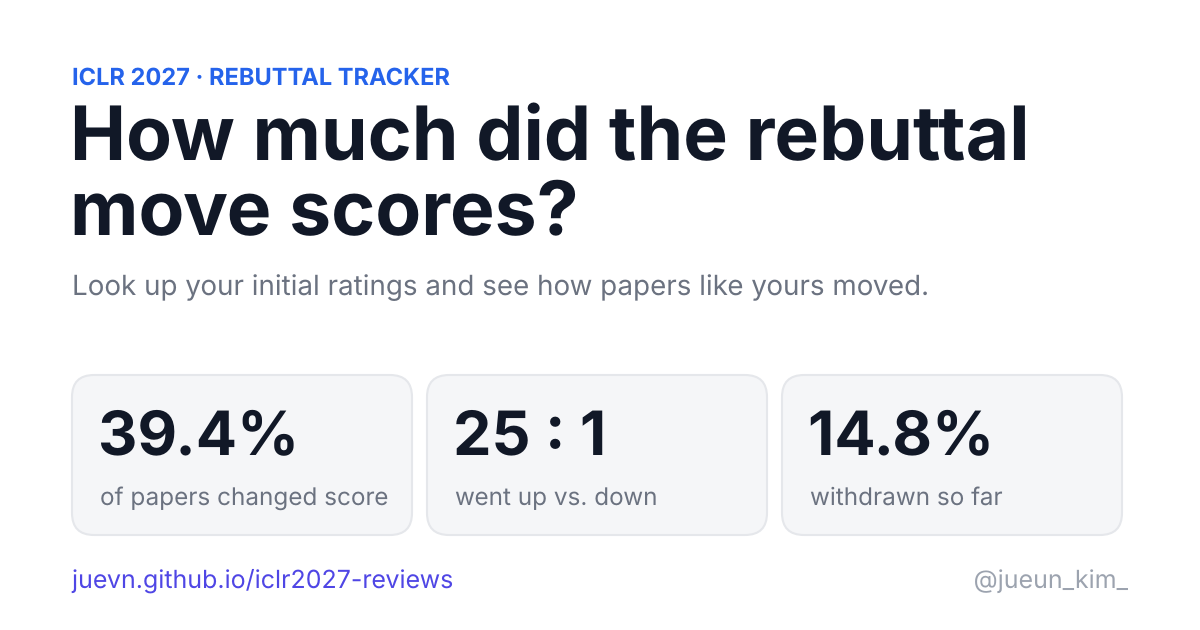
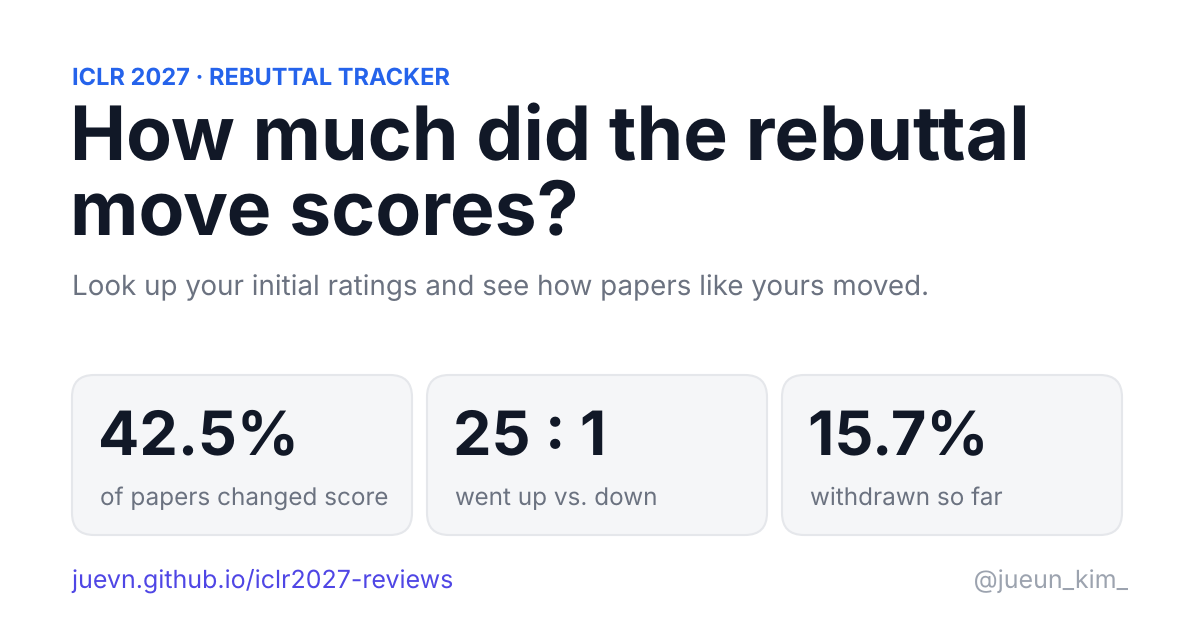
Update to 2026-11-22T07:23:02Z
Claude-Session: https://claude.ai/code/session_01TcxDZfia7MrzcEvY8LDLi9

Changed region(s): [[0.6783, 0.6333, 0.8325, 0.7238], [0.0617, 0.6333, 0.2158, 0.7238]]

diff --git a/data.js b/data.js
@@ -5,107 +5,108 @@ window.ICLR_DATA = {
   venue: "ICLR 2027",
   scale: [1,4],
   baseline: {"at":"2026-11-06T13:54:47Z","source":"https://shiqiangw.github.io/iclr-2027-scores/","by":"shiqiangw"},
-  updated: "2026-11-19T12:07:10Z",
+  updated: "2026-11-22T07:23:02Z",
   discussionEnds: "2026-11-18",
   decisions: "2026-12-16",
   combos: {
-    "1":[2,0,0,0,0,0,0,0],"2":[2,0,0,0,0,0,0,0],"11":[27,9,0,13,2,0,0,5],"21":[73,15,0,30,4,0,0,5],"22":[104,9,0,54,13,1,0,20],"31":[24,1,0,13,4,0,0,5],
-    "32":[75,0,0,32,12,1,0,11],"33":[20,0,0,14,3,0,0,3],"41":[1,0,0,1,1,0,0,1],"42":[5,0,0,3,1,0,0,1],"43":[2,0,0,1,0,0,0,0],"44":[1,0,0,1,0,0,0,0],
-    "111":[764,271,0,490,19,0,0,24],"211":[3062,1067,1,1984,199,23,0,255],"221":[6602,2028,5,4552,1130,49,0,1495],"222":[7463,1233,3,6205,2349,58,14,3266],"311":[651,152,1,494,89,30,2,75],"321":[3548,463,0,3072,1140,83,5,1448],
-    "322":[7667,184,2,7455,3509,120,16,4627],"331":[675,5,0,667,308,12,3,399],"332":[3733,9,1,3709,1866,66,4,2118],"333":[773,1,0,768,194,1,0,230],"411":[30,4,0,26,6,1,0,6],"421":[215,11,1,203,88,8,0,103],
-    "422":[418,2,0,416,201,14,7,267],"431":[79,0,0,77,28,1,0,47],"432":[515,1,0,512,274,6,2,303],"433":[198,0,0,195,50,0,0,58],"441":[6,0,0,6,2,0,1,3],"442":[40,0,0,39,22,0,1,25],
-    "443":[28,0,0,28,5,1,0,4],"444":[2,0,0,2,0,0,0,0],"1111":[29,7,1,21,0,0,0,0],"2111":[107,32,0,73,8,1,0,7],"2211":[245,85,0,160,19,0,0,26],"2221":[428,108,0,314,89,1,2,158],
-    "2222":[455,106,1,347,143,0,2,225],"3111":[17,7,0,10,1,1,0,0],"3211":[111,25,0,85,18,5,0,22],"3221":[336,51,0,285,125,9,0,172],"3222":[565,41,0,521,290,6,3,429],"3311":[28,4,0,24,7,0,1,9],
-    "3321":[133,4,0,129,69,2,1,102],"3322":[435,2,0,425,248,8,2,344],"3331":[27,0,0,27,10,2,0,13],"3332":[156,0,0,155,86,1,0,101],"3333":[17,0,0,17,3,1,0,2],"4111":[1,1,0,0,0,0,0,0],
-    "4211":[8,0,0,8,2,0,0,4],"4221":[25,3,0,22,10,1,0,19],"4222":[40,0,0,40,25,1,0,33],"4311":[1,0,0,1,0,0,0,0],"4321":[28,0,0,28,16,3,0,15],"4322":[51,0,0,51,27,1,1,35],
-    "4331":[8,0,0,8,4,0,0,5],"4332":[38,0,0,38,18,1,1,15],"4333":[7,0,0,7,0,0,0,0],"4421":[1,0,0,1,1,0,0,2],"4422":[3,0,0,3,2,0,0,3],"4431":[2,0,0,2,2,0,0,4],
+    "1":[2,0,0,0,0,0,0,0],"2":[2,0,1,0,0,0,0,0],"11":[27,9,0,13,2,0,0,6],"21":[73,16,0,30,5,0,0,7],"22":[104,9,0,54,14,1,1,21],"31":[24,1,0,13,5,0,0,7],
+    "32":[75,0,1,32,12,1,0,11],"33":[20,0,0,14,3,0,0,3],"41":[1,0,0,1,1,0,0,1],"42":[5,0,0,3,1,0,0,1],"43":[2,0,0,1,0,0,0,0],"44":[1,0,0,1,0,0,0,0],
+    "111":[764,291,10,460,20,0,0,27],"211":[3062,1137,29,1886,207,23,0,270],"221":[6602,2134,71,4380,1186,55,1,1599],"222":[7463,1311,84,6047,2492,60,17,3524],"311":[651,164,12,471,92,30,2,83],"321":[3548,488,42,3005,1190,81,6,1544],
+    "322":[7667,191,118,7332,3683,123,20,4985],"331":[675,7,8,657,317,15,4,413],"332":[3733,10,47,3662,1955,75,4,2234],"333":[773,1,9,759,199,0,0,241],"411":[30,4,1,25,6,1,0,8],"421":[215,11,1,203,95,11,0,109],
+    "422":[418,2,2,414,212,14,8,287],"431":[79,0,1,76,31,1,0,49],"432":[515,1,7,505,288,6,2,323],"433":[198,0,2,193,52,1,0,60],"441":[6,0,0,6,4,0,1,5],"442":[40,0,0,39,24,0,1,27],
+    "443":[28,0,0,28,5,1,0,4],"444":[2,0,0,2,0,0,0,0],"1111":[29,8,1,20,1,0,0,1],"2111":[107,32,0,73,9,1,0,8],"2211":[245,87,2,156,18,0,0,26],"2221":[428,118,7,297,95,2,2,174],
+    "2222":[455,111,9,334,145,1,2,232],"3111":[17,7,0,10,1,0,1,1],"3211":[111,26,1,83,18,7,0,20],"3221":[336,53,3,280,132,10,0,188],"3222":[565,44,8,510,307,6,4,463],"3311":[28,5,0,23,7,0,1,9],
+    "3321":[133,5,2,126,70,1,1,114],"3322":[435,2,9,416,262,8,2,372],"3331":[27,0,0,27,10,2,0,14],"3332":[156,0,2,153,93,1,0,108],"3333":[17,0,0,17,3,1,0,3],"4111":[1,1,0,0,0,0,0,0],
+    "4211":[8,0,0,8,2,0,0,4],"4221":[25,3,1,21,11,1,0,20],"4222":[40,0,0,40,25,1,0,34],"4311":[1,0,0,1,0,0,0,0],"4321":[28,0,0,28,16,3,0,16],"4322":[51,0,1,50,28,1,0,37],
+    "4331":[8,0,0,8,4,0,0,5],"4332":[38,0,0,38,23,1,1,21],"4333":[7,0,1,6,0,0,0,0],"4421":[1,0,0,1,1,0,0,2],"4422":[3,0,0,3,2,0,0,3],"4431":[2,0,0,2,2,0,0,4],
     "4432":[3,0,0,3,0,0,0,0],"4433":[4,0,0,4,0,0,0,0],"4443":[1,0,0,1,0,0,0,0],"11111":[4,1,0,3,0,0,0,0],"21111":[6,3,0,3,0,0,0,0],"22111":[14,4,0,10,4,0,0,4],
-    "22211":[22,9,0,13,2,0,0,3],"22221":[32,8,0,24,6,0,0,13],"22222":[19,3,0,16,8,0,0,12],"32111":[8,2,0,6,1,0,0,2],"32211":[21,5,0,16,6,1,2,6],"32221":[29,9,0,20,14,0,0,22],
-    "32222":[37,4,0,33,15,0,0,23],"33211":[2,0,0,2,0,1,0,-1],"33221":[27,0,0,27,14,0,0,33],"33222":[46,2,0,44,26,0,2,48],"33311":[2,0,0,2,1,0,0,1],"33321":[4,0,0,4,2,0,0,3],
-    "33322":[14,0,0,14,8,0,0,11],"33331":[2,0,0,2,1,0,0,1],"33332":[7,0,0,7,4,0,0,6],"33333":[2,0,0,2,0,0,0,0],"42221":[3,0,0,3,1,0,0,4],"42222":[1,0,0,1,0,0,0,0],
-    "43211":[1,0,0,1,1,0,0,2],"43221":[1,0,0,1,1,0,0,2],"43222":[7,0,0,7,4,0,1,7],"43322":[2,0,0,2,1,0,0,1],"43331":[1,0,0,1,1,0,0,1],"43332":[4,0,0,4,3,0,0,6],
+    "22211":[22,9,1,12,1,0,0,1],"22221":[32,9,1,22,5,0,0,12],"22222":[19,3,0,16,9,0,0,15],"32111":[8,2,0,6,1,1,0,1],"32211":[21,5,0,16,6,1,2,6],"32221":[29,9,0,20,14,0,0,22],
+    "32222":[37,4,0,33,15,1,0,22],"33211":[2,0,0,2,0,1,0,-1],"33221":[27,0,1,26,15,0,0,35],"33222":[46,2,0,44,28,0,2,51],"33311":[2,0,0,2,2,0,0,2],"33321":[4,0,0,4,2,0,0,3],
+    "33322":[14,0,0,14,8,0,0,12],"33331":[2,0,0,2,1,0,0,1],"33332":[7,0,0,7,4,0,0,6],"33333":[2,0,0,2,0,0,0,0],"42221":[3,0,0,3,1,1,0,3],"42222":[1,0,0,1,0,0,0,0],
+    "43211":[1,0,0,1,1,0,0,2],"43221":[1,0,0,1,1,0,0,2],"43222":[7,0,0,7,5,0,1,8],"43322":[2,0,0,2,1,0,0,1],"43331":[1,0,0,1,1,0,0,1],"43332":[4,0,0,4,3,0,0,6],
     "43333":[1,0,0,1,0,0,0,0],"44311":[1,0,0,1,0,0,0,0],"44322":[3,0,0,3,1,0,0,2],"44332":[3,0,0,3,3,0,0,4],"211111":[1,1,0,0,0,0,0,0],"221111":[1,1,0,0,0,0,0,0],
-    "222211":[2,1,0,1,0,0,0,0],"222221":[2,1,0,1,1,0,0,1],"322211":[1,0,0,1,1,0,0,4],"322221":[1,0,0,1,0,0,0,0],"322222":[3,0,0,3,1,0,0,1],"332222":[2,0,0,2,0,1,0,-1],
+    "222211":[2,1,0,1,0,0,0,0],"222221":[2,1,0,1,1,0,0,1],"322211":[1,0,0,1,1,0,0,4],"322221":[1,0,0,1,0,0,0,0],"322222":[3,0,0,3,1,0,0,1],"332222":[2,0,1,1,0,0,0,0],
     "333222":[1,0,0,1,1,0,0,1],"432211":[1,0,0,1,1,0,0,1],"433321":[1,0,0,1,1,0,0,1],"2222211":[1,0,0,1,0,0,0,0]
   },
   // Mean rating now -> number of papers still under review, for ranking a score against today's field.
-  currentMeans: {"n":34560,"h":{"1.00":543,"1.20":4,"1.25":71,"1.33":1871,"1.40":6,"1.50":203,"1.60":23,"1.67":4065,"1.71":1,"1.75":321,"1.80":33,"2.00":7332,"2.17":3,"2.20":52,"2.25":539,"2.33":7080,"2.40":48,"2.50":575,"2.60":40,"2.67":5637,"2.75":444,"2.80":29,"2.83":1,"3.00":4243,"3.20":6,"3.25":85,"3.33":1058,"3.40":5,"3.50":18,"3.60":2,"3.67":187,"3.75":2,"4.00":33}},
+  currentMeans: {"n":33724,"h":{"1.00":509,"1.20":4,"1.25":70,"1.33":1769,"1.40":7,"1.50":203,"1.60":22,"1.67":3812,"1.71":1,"1.75":293,"1.80":33,"2.00":6911,"2.17":2,"2.20":45,"2.25":504,"2.33":6845,"2.40":49,"2.50":566,"2.60":40,"2.67":5576,"2.75":437,"2.80":29,"2.83":1,"3.00":4522,"3.20":6,"3.25":87,"3.33":1107,"3.40":5,"3.50":21,"3.60":2,"3.67":206,"3.75":2,"4.00":38}},
   // Review-level moves. exact: the pairing of initial and current ratings is unique.
   // inferred: more than one pairing fits, smallest-change one used.
-  reviews: {"analyzed":105723,"modified":38993,"changed":16373,"exact":13822,"inferred":2551,"initial":{"1":17068,"2":60377,"3":26421,"4":1857},"moves":{"2>3":11409,"1>2":1716,"3>4":991,"2>4":817,"1>3":781,"2>1":308,"3>2":250,"1>4":39,"4>3":28,"3>1":24,"4>2":8,"4>1":2}},
+  reviews: {"analyzed":103163,"modified":42301,"changed":17456,"exact":14472,"inferred":2984,"initial":{"1":16435,"2":58890,"3":25997,"4":1841},"moves":{"2>3":12170,"1>2":1789,"3>4":1002,"2>4":909,"1>3":874,"2>1":343,"3>2":256,"1>4":45,"4>3":33,"3>1":25,"4>2":8,"4>1":2}},
   // dest: initial ratings -> current ratings of the papers that changed (same number of reviews), with counts.
   dest: {
-    "11":{"31":1,"32":1},
-    "21":{"22":2,"31":1,"41":1},
-    "22":{"21":1,"32":6,"33":6,"43":1},
-    "31":{"32":3,"42":1},
+    "11":{"31":1,"33":1},
+    "21":{"22":3,"31":1,"42":1},
+    "22":{"21":1,"31":1,"32":7,"33":6,"43":1},
+    "31":{"32":3,"33":1,"42":1},
     "32":{"31":1,"33":12},
     "33":{"43":3},
     "41":{"42":1},
     "42":{"43":1},
-    "111":{"211":14,"221":4,"311":1},
-    "211":{"111":23,"221":113,"222":27,"311":23,"321":24,"322":6,"331":3,"332":1,"333":1,"422":1},
-    "221":{"111":1,"211":48,"222":466,"321":344,"322":190,"331":45,"332":58,"333":11,"421":7,"422":2,"431":3,"432":2,"433":2},
-    "222":{"211":2,"221":56,"321":14,"322":1561,"331":6,"332":576,"333":157,"422":21,"431":1,"432":16,"433":11},
-    "311":{"111":5,"211":25,"221":2,"222":4,"321":63,"322":12,"331":2,"332":2,"411":3,"421":3},
-    "321":{"211":3,"221":62,"222":5,"311":18,"322":502,"331":294,"332":199,"333":50,"421":38,"422":9,"431":20,"432":18,"433":9,"442":1},
-    "322":{"221":7,"222":67,"311":1,"321":45,"331":15,"332":2232,"333":830,"421":1,"422":153,"431":2,"432":174,"433":108,"441":1,"442":3,"443":5,"444":1},
-    "331":{"311":1,"321":11,"322":3,"332":179,"333":59,"422":1,"431":36,"432":21,"433":7,"441":3,"443":1,"444":1},
-    "332":{"222":1,"321":6,"322":31,"331":28,"333":1354,"422":1,"431":3,"432":227,"433":234,"442":15,"443":32,"444":4},
-    "333":{"332":1,"433":164,"443":23,"444":7},
-    "411":{"211":1,"421":4,"422":1,"431":1},
-    "421":{"211":1,"221":1,"321":6,"332":1,"422":29,"431":35,"432":19,"433":2,"441":1,"442":1},
-    "422":{"222":1,"322":6,"332":5,"333":1,"421":7,"431":2,"432":124,"433":69,"442":2,"443":5},
-    "431":{"331":1,"432":8,"433":15,"441":2,"442":1,"443":2},
-    "432":{"322":1,"333":1,"422":3,"431":2,"433":207,"441":1,"442":32,"443":34,"444":1},
-    "433":{"443":42,"444":8},
-    "441":{"432":1,"442":1,"443":1},
-    "442":{"433":1,"443":19,"444":3},
+    "111":{"211":13,"221":6,"311":1},
+    "211":{"111":23,"221":117,"222":27,"311":22,"321":27,"322":8,"331":3,"332":1,"333":1,"422":1},
+    "221":{"111":1,"211":54,"222":486,"311":1,"321":346,"322":203,"331":49,"332":70,"333":14,"421":7,"422":3,"431":4,"432":2,"433":2},
+    "222":{"211":2,"221":58,"321":17,"322":1621,"331":7,"332":622,"333":185,"422":23,"431":1,"432":21,"433":12},
+    "311":{"111":4,"211":26,"221":2,"222":5,"321":64,"322":14,"331":2,"332":1,"333":1,"411":1,"421":4},
+    "321":{"211":3,"221":59,"222":6,"311":19,"322":516,"331":292,"332":230,"333":56,"421":38,"422":10,"431":20,"432":18,"433":9,"442":1},
+    "322":{"221":7,"222":65,"311":1,"321":50,"331":19,"332":2245,"333":964,"421":1,"422":142,"431":2,"432":198,"433":120,"441":1,"442":4,"443":6,"444":1},
+    "331":{"221":1,"311":2,"321":12,"322":4,"332":185,"333":59,"422":1,"431":32,"432":24,"433":10,"441":4,"443":1,"444":1},
+    "332":{"222":1,"321":7,"322":34,"331":33,"333":1414,"422":1,"431":3,"432":228,"433":254,"442":14,"443":41,"444":4},
+    "333":{"433":166,"443":24,"444":9},
+    "411":{"211":1,"421":4,"422":1,"433":1},
+    "421":{"211":1,"221":1,"321":9,"332":1,"422":30,"431":40,"432":20,"433":2,"442":2},
+    "422":{"222":1,"322":5,"332":6,"333":1,"421":8,"431":2,"432":128,"433":73,"442":3,"443":7},
+    "431":{"331":1,"432":12,"433":14,"441":2,"442":1,"443":2},
+    "432":{"322":1,"333":1,"422":3,"431":2,"433":218,"441":1,"442":30,"443":38,"444":2},
+    "433":{"332":1,"443":42,"444":10},
+    "441":{"432":1,"442":3,"443":1},
+    "442":{"433":1,"443":21,"444":3},
     "443":{"433":1,"444":5},
-    "2111":{"1111":1,"2211":7,"3111":1},
-    "2211":{"2221":10,"2222":1,"3211":4,"3221":2,"3222":1,"3321":1},
-    "2221":{"2211":1,"2222":20,"3211":2,"3221":22,"3222":15,"3321":14,"3322":9,"3331":4,"3332":2,"3333":1,"4222":1,"4421":1},
-    "2222":{"3221":2,"3222":78,"3321":2,"3322":44,"3332":14,"4222":2,"4322":2,"4333":1},
-    "3111":{"2111":1,"3211":1},
-    "3211":{"2211":5,"3221":9,"3222":1,"3311":1,"3321":4,"3322":2,"4211":1},
-    "3221":{"2111":1,"2221":7,"3211":1,"3222":42,"3321":41,"3322":20,"3331":5,"3332":7,"3333":3,"4221":1,"4222":1,"4321":3,"4331":1,"4432":1},
-    "3222":{"2222":4,"3221":2,"3321":3,"3322":165,"3332":70,"3333":22,"4222":10,"4322":16,"4332":6,"4333":1},
+    "1111":{"2111":1},
+    "2111":{"1111":1,"2211":8,"3111":1},
+    "2211":{"2221":8,"2222":2,"3211":4,"3221":2,"3222":1,"3321":1},
+    "2221":{"2211":2,"2222":21,"3211":2,"3221":22,"3222":19,"3321":12,"3322":10,"3331":4,"3332":3,"3333":2,"4222":1,"4421":1},
+    "2222":{"2221":1,"3221":2,"3222":76,"3321":3,"3322":43,"3332":15,"3333":1,"4222":4,"4322":2,"4333":1},
+    "3111":{"2211":1,"3211":1},
+    "3211":{"2211":7,"3221":9,"3222":1,"3311":1,"3321":4,"3322":2,"4211":1},
+    "3221":{"2111":1,"2221":8,"3211":1,"3222":42,"3321":40,"3322":25,"3331":7,"3332":8,"3333":3,"4221":1,"4222":1,"4321":2,"4331":2,"4432":1},
+    "3222":{"2222":4,"3221":2,"3321":4,"3322":173,"3332":71,"3333":28,"4222":11,"4322":14,"4332":9,"4333":1},
     "3311":{"3221":1,"3321":4,"4311":1,"4321":1,"4411":1},
-    "3321":{"3221":2,"3222":1,"3322":24,"3331":18,"3332":12,"3333":6,"4321":3,"4322":2,"4331":1,"4332":1,"4333":2},
-    "3322":{"3221":1,"3222":4,"3321":3,"3331":2,"3332":147,"3333":49,"4322":13,"4332":21,"4333":15,"4422":1,"4432":2},
-    "3331":{"3321":2,"3332":6,"3333":1,"4332":1,"4333":1,"4431":1},
-    "3332":{"3322":1,"3333":62,"4332":11,"4333":9,"4432":1,"4433":3},
-    "3333":{"3332":1,"4333":3},
+    "3321":{"3221":1,"3222":1,"3322":23,"3331":14,"3332":15,"3333":8,"4321":3,"4322":2,"4331":1,"4332":1,"4333":3},
+    "3322":{"3222":5,"3321":3,"3331":2,"3332":153,"3333":57,"4322":9,"4332":24,"4333":15,"4422":1,"4432":3},
+    "3331":{"3321":2,"3332":5,"3333":1,"4332":2,"4333":1,"4431":1},
+    "3332":{"3322":1,"3333":69,"4332":11,"4333":9,"4432":1,"4433":3},
+    "3333":{"3332":1,"4333":2,"4433":1},
     "4211":{"4311":1,"4322":1},
-    "4221":{"3221":1,"4222":1,"4321":4,"4322":2,"4332":1,"4432":2},
-    "4222":{"2222":1,"4322":17,"4332":5,"4333":2,"4422":1},
-    "4321":{"3221":2,"3321":1,"4322":10,"4331":2,"4332":2,"4422":1,"4431":1},
-    "4322":{"3222":1,"3332":1,"4332":17,"4333":9,"4432":1},
+    "4221":{"3221":1,"4222":2,"4321":4,"4322":2,"4332":1,"4432":2},
+    "4222":{"2222":1,"4322":16,"4332":6,"4333":2,"4422":1},
+    "4321":{"3221":2,"3321":1,"4322":9,"4331":2,"4332":3,"4422":1,"4431":1},
+    "4322":{"3322":1,"3333":1,"4332":18,"4333":8,"4433":1},
     "4331":{"4332":1,"4431":2,"4432":1},
-    "4332":{"3321":1,"3333":1,"4333":15,"4432":3},
+    "4332":{"3321":1,"3333":1,"4333":20,"4432":2,"4433":1},
     "4421":{"4432":1},
     "4422":{"4432":1,"4433":1},
     "4431":{"4432":1,"4443":1},
     "22111":{"22211":4},
-    "22211":{"32211":1,"32221":1},
-    "22221":{"22222":1,"32221":1,"32222":1,"33321":1,"33322":1,"42221":1},
-    "22222":{"32222":5,"33222":2,"33322":1},
-    "32111":{"32221":1},
-    "32211":{"22211":1,"22221":2,"32221":4,"33211":1,"33221":1},
+    "22211":{"32211":1},
+    "22221":{"22222":1,"32221":1,"33222":1,"33321":1,"33322":1},
+    "22222":{"32222":5,"33222":3,"33332":1},
+    "32111":{"31111":1,"32221":1},
+    "32211":{"22221":2,"32111":1,"32221":4,"33211":1,"33221":1},
     "32221":{"32222":4,"33221":4,"33222":2,"33321":2,"33322":2},
-    "32222":{"33222":10,"33322":3,"33332":1,"33333":1},
+    "32222":{"22221":1,"33222":9,"33322":4,"33332":1,"33333":1},
     "33211":{"33111":1},
-    "33221":{"33222":3,"33321":2,"33322":2,"33332":3,"33333":1,"43221":1,"43333":1,"44431":1},
-    "33222":{"33321":2,"33322":12,"33332":5,"33333":4,"43322":3,"43333":2},
-    "33311":{"33321":1},
+    "33221":{"33222":3,"33321":3,"33322":2,"33332":2,"33333":1,"43221":1,"43332":1,"43333":1,"44431":1},
+    "33222":{"33321":2,"33322":13,"33332":6,"33333":4,"43322":3,"43333":2},
+    "33311":{"33321":2},
     "33321":{"33322":1,"33332":1},
-    "33322":{"33332":5,"33333":2,"43332":1},
+    "33322":{"33332":4,"33333":3,"43332":1},
     "33331":{"43331":1},
     "33332":{"33333":2,"43332":1,"44333":1},
-    "42221":{"43332":1},
+    "42221":{"32221":1,"43332":1},
     "43211":{"43321":1},
     "43221":{"43322":1},
-    "43222":{"43321":1,"43322":1,"43332":3},
+    "43222":{"43321":1,"43322":2,"43332":3},
     "43322":{"43332":1},
     "43331":{"43332":1},
     "43332":{"43333":1,"44333":1,"44433":1},
@@ -114,13 +115,12 @@ window.ICLR_DATA = {
     "222221":{"322221":1},
     "322211":{"333222":1},
     "322222":{"332222":1},
-    "332222":{"332221":1},
     "333222":{"333322":1},
     "432211":{"432221":1},
     "433321":{"433322":1}
   },
   // moveTimes: changed reviews per move, by 3-hour UTC bucket of the review's last edit (a later text-only edit moves it).
-  moveTimes: {"2>3":{"2026-11-06T12":2,"2026-11-06T18":2,"2026-11-07T00":1,"2026-11-07T03":1,"2026-11-08T03":1,"2026-11-08T12":1,"2026-11-09T03":2,"2026-11-09T15":2,"2026-11-09T18":2,"2026-11-09T21":2,"2026-11-10T00":1,"2026-11-10T03":1,"2026-11-10T06":3,"2026-11-10T09":1,"2026-11-10T18":2,"2026-11-10T21":2,"2026-11-11T00":3,"2026-11-11T06":2,"2026-11-11T09":4,"2026-11-11T12":3,"2026-11-11T15":3,"2026-11-11T18":3,"2026-11-11T21":1,"2026-11-12T00":9,"2026-11-12T03":7,"2026-11-12T06":8,"2026-11-12T09":4,"2026-11-12T12":4,"2026-11-12T15":9,"2026-11-12T18":8,"2026-11-12T21":5,"2026-11-13T00":5,"2026-11-13T03":18,"2026-11-13T06":17,"2026-11-13T09":16,"2026-11-13T12":17,"2026-11-13T15":14,"2026-11-13T18":20,"2026-11-13T21":21,"2026-11-14T00":11,"2026-11-14T03":86,"2026-11-14T06":136,"2026-11-14T09":71,"2026-11-14T12":71,"2026-11-14T15":59,"2026-11-14T18":42,"2026-11-14T21":32,"2026-11-15T00":46,"2026-11-15T03":56,"2026-11-15T06":86,"2026-11-15T09":74,"2026-11-15T12":74,"2026-11-15T15":72,"2026-11-15T18":37,"2026-11-15T21":39,"2026-11-16T00":106,"2026-11-16T03":160,"2026-11-16T06":189,"2026-11-16T09":168,"2026-11-16T12":171,"2026-11-16T15":147,"2026-11-16T18":103,"2026-11-16T21":78,"2026-11-17T00":155,"2026-11-17T03":225,"2026-11-17T06":858,"2026-11-17T09":431,"2026-11-17T12":416,"2026-11-17T15":382,"2026-11-17T18":252,"2026-11-17T21":190,"2026-11-18T00":329,"2026-11-18T03":516,"2026-11-18T06":583,"2026-11-18T09":472,"2026-11-18T12":442,"2026-11-18T15":417,"2026-11-18T18":279,"2026-11-18T21":233,"2026-11-19T00":410,"2026-11-19T03":764,"2026-11-19T06":840,"2026-11-19T09":845,"2026-11-19T12":29},"1>2":{"2026-11-06T18":1,"2026-11-07T18":1,"2026-11-08T00":1,"2026-11-09T06":1,"2026-11-10T00":1,"2026-11-10T12":2,"2026-11-10T15":1,"2026-11-10T18":1,"2026-11-11T03":1,"2026-11-11T18":1,"2026-11-12T03":2,"2026-11-12T06":1,"2026-11-12T12":2,"2026-11-12T21":2,"2026-11-13T03":5,"2026-11-13T06":5,"2026-11-13T09":4,"2026-11-13T12":4,"2026-11-13T15":4,"2026-11-13T18":3,"2026-11-13T21":4,"2026-11-14T00":1,"2026-11-14T03":18,"2026-11-14T06":22,"2026-11-14T09":22,"2026-11-14T12":15,"2026-11-14T15":12,"2026-11-14T18":12,"2026-11-14T21":3,"2026-11-15T00":7,"2026-11-15T03":10,"2026-11-15T06":7,"2026-11-15T09":14,"2026-11-15T12":9,"2026-11-15T15":5,"2026-11-15T18":10,"2026-11-15T21":6,"2026-11-16T00":15,"2026-11-16T03":14,"2026-11-16T06":19,"2026-11-16T09":22,"2026-11-16T12":24,"2026-11-16T15":26,"2026-11-16T18":22,"2026-11-16T21":16,"2026-11-17T00":11,"2026-11-17T03":28,"2026-11-17T06":131,"2026-11-17T09":52,"2026-11-17T12":61,"2026-11-17T15":61,"2026-11-17T18":55,"2026-11-17T21":39,"2026-11-18T00":51,"2026-11-18T03":48,"2026-11-18T06":67,"2026-11-18T09":68,"2026-11-18T12":58,"2026-11-18T15":72,"2026-11-18T18":45,"2026-11-18T21":40,"2026-11-19T00":64,"2026-11-19T03":111,"2026-11-19T06":133,"2026-11-19T09":136,"2026-11-19T12":7},"3>4":{"2026-11-06T15":1,"2026-11-07T21":1,"2026-11-08T21":1,"2026-11-09T06":1,"2026-11-10T03":1,"2026-11-10T06":1,"2026-11-10T09":1,"2026-11-10T12":2,"2026-11-11T12":1,"2026-11-11T15":1,"2026-11-11T18":1,"2026-11-11T21":2,"2026-11-12T12":1,"2026-11-12T15":1,"2026-11-12T18":2,"2026-11-12T21":2,"2026-11-13T00":1,"2026-11-13T03":3,"2026-11-13T06":5,"2026-11-13T09":6,"2026-11-13T12":3,"2026-11-13T15":1,"2026-11-13T18":3,"2026-11-13T21":3,"2026-11-14T00":3,"2026-11-14T03":6,"2026-11-14T06":12,"2026-11-14T09":3,"2026-11-14T12":12,"2026-11-14T15":6,"2026-11-14T18":7,"2026-11-15T00":4,"2026-11-15T03":7,"2026-11-15T06":9,"2026-11-15T09":10,"2026-11-15T12":14,"2026-11-15T15":5,"2026-11-15T18":7,"2026-11-15T21":3,"2026-11-16T00":12,"2026-11-16T03":20,"2026-11-16T06":20,"2026-11-16T09":16,"2026-11-16T12":17,"2026-11-16T15":15,"2026-11-16T18":19,"2026-11-16T21":8,"2026-11-17T00":17,"2026-11-17T03":17,"2026-11-17T06":57,"2026-11-17T09":41,"2026-11-17T12":45,"2026-11-17T15":35,"2026-11-17T18":29,"2026-11-17T21":24,"2026-11-18T00":20,"2026-11-18T03":37,"2026-11-18T06":36,"2026-11-18T09":34,"2026-11-18T12":39,"2026-11-18T15":29,"2026-11-18T18":27,"2026-11-18T21":19,"2026-11-19T00":35,"2026-11-19T03":56,"2026-11-19T06":54,"2026-11-19T09":57,"2026-11-19T12":3},"2>4":{"2026-11-07T03":3,"2026-11-08T12":1,"2026-11-08T15":1,"2026-11-09T09":2,"2026-11-09T12":1,"2026-11-10T09":2,"2026-11-10T18":1,"2026-11-11T09":1,"2026-11-11T12":1,"2026-11-12T03":2,"2026-11-12T06":1,"2026-11-12T12":4,"2026-11-12T15":3,"2026-11-12T18":1,"2026-11-12T21":1,"2026-11-13T03":4,"2026-11-13T06":2,"2026-11-13T09":4,"2026-11-13T12":3,"2026-11-13T15":5,"2026-11-13T21":5,"2026-11-14T00":3,"2026-11-14T03":11,"2026-11-14T06":10,"2026-11-14T09":4,"2026-11-14T12":8,"2026-11-14T15":12,"2026-11-14T18":3,"2026-11-14T21":3,"2026-11-15T00":5,"2026-11-15T03":7,"2026-11-15T06":8,"2026-11-15T09":8,"2026-11-15T12":7,"2026-11-15T15":5,"2026-11-15T18":6,"2026-11-15T21":1,"2026-11-16T00":11,"2026-11-16T03":10,"2026-11-16T06":17,"2026-11-16T09":18,"2026-11-16T12":13,"2026-11-16T15":13,"2026-11-16T18":13,"2026-11-16T21":9,"2026-11-17T00":19,"2026-11-17T03":18,"2026-11-17T06":54,"2026-11-17T09":30,"2026-11-17T12":30,"2026-11-17T15":22,"2026-11-17T18":18,"2026-11-17T21":21,"2026-11-18T00":28,"2026-11-18T03":22,"2026-11-18T06":36,"2026-11-18T09":33,"2026-11-18T12":26,"2026-11-18T15":38,"2026-11-18T18":15,"2026-11-18T21":11,"2026-11-19T00":29,"2026-11-19T03":31,"2026-11-19T06":38,"2026-11-19T09":43,"2026-11-19T12":2},"1>3":{"2026-11-12T06":2,"2026-11-12T09":2,"2026-11-12T15":2,"2026-11-12T18":3,"2026-11-12T21":1,"2026-11-13T00":1,"2026-11-13T03":1,"2026-11-13T06":1,"2026-11-13T09":1,"2026-11-13T12":2,"2026-11-13T15":2,"2026-11-13T18":3,"2026-11-13T21":4,"2026-11-14T03":6,"2026-11-14T06":12,"2026-11-14T09":7,"2026-11-14T15":6,"2026-11-14T18":7,"2026-11-14T21":1,"2026-11-15T00":6,"2026-11-15T03":3,"2026-11-15T06":3,"2026-11-15T09":3,"2026-11-15T12":5,"2026-11-15T15":6,"2026-11-15T18":6,"2026-11-15T21":9,"2026-11-16T00":3,"2026-11-16T03":11,"2026-11-16T06":15,"2026-11-16T09":4,"2026-11-16T12":11,"2026-11-16T15":7,"2026-11-16T18":9,"2026-11-16T21":6,"2026-11-17T00":4,"2026-11-17T03":20,"2026-11-17T06":49,"2026-11-17T09":22,"2026-11-17T12":27,"2026-11-17T15":21,"2026-11-17T18":18,"2026-11-17T21":18,"2026-11-18T00":28,"2026-11-18T03":33,"2026-11-18T06":39,"2026-11-18T09":33,"2026-11-18T12":26,"2026-11-18T15":32,"2026-11-18T18":24,"2026-11-18T21":24,"2026-11-19T00":32,"2026-11-19T03":58,"2026-11-19T06":53,"2026-11-19T09":44,"2026-11-19T12":5},"2>1":{"2026-11-06T12":2,"2026-11-06T15":2,"2026-11-06T18":2,"2026-11-07T00":1,"2026-11-07T03":3,"2026-11-07T06":1,"2026-11-08T15":1,"2026-11-09T09":1,"2026-11-10T18":1,"2026-11-11T09":1,"2026-11-11T12":1,"2026-11-12T00":1,"2026-11-12T03":2,"2026-11-12T12":2,"2026-11-13T06":2,"2026-11-13T09":2,"2026-11-13T15":1,"2026-11-13T21":3,"2026-11-14T03":6,"2026-11-14T06":5,"2026-11-14T09":4,"2026-11-14T12":1,"2026-11-14T15":2,"2026-11-14T18":2,"2026-11-15T00":1,"2026-11-15T06":2,"2026-11-15T09":3,"2026-11-15T12":2,"2026-11-15T15":3,"2026-11-15T18":4,"2026-11-16T00":2,"2026-11-16T03":4,"2026-11-16T06":5,"2026-11-16T09":1,"2026-11-16T12":4,"2026-11-16T15":1,"2026-11-16T18":6,"2026-11-16T21":1,"2026-11-17T00":6,"2026-11-17T03":3,"2026-11-17T06":22,"2026-11-17T09":5,"2026-11-17T12":6,"2026-11-17T15":12,"2026-11-17T18":4,"2026-11-17T21":6,"2026-11-18T00":4,"2026-11-18T03":12,"2026-11-18T06":12,"2026-11-18T09":12,"2026-11-18T12":10,"2026-11-18T15":10,"2026-11-18T18":9,"2026-11-18T21":6,"2026-11-19T00":8,"2026-11-19T03":19,"2026-11-19T06":22,"2026-11-19T09":31,"2026-11-19T12":1},"3>2":{"2026-11-06T12":2,"2026-11-06T15":2,"2026-11-06T18":1,"2026-11-07T03":1,"2026-11-08T03":1,"2026-11-08T15":1,"2026-11-09T03":1,"2026-11-09T15":1,"2026-11-11T12":1,"2026-11-12T09":1,"2026-11-13T03":1,"2026-11-13T06":1,"2026-11-14T03":3,"2026-11-14T06":3,"2026-11-14T09":4,"2026-11-14T12":2,"2026-11-14T15":1,"2026-11-14T18":3,"2026-11-15T00":1,"2026-11-15T03":2,"2026-11-15T06":1,"2026-11-15T09":1,"2026-11-15T12":1,"2026-11-15T15":1,"2026-11-15T18":3,"2026-11-16T00":3,"2026-11-16T03":6,"2026-11-16T06":5,"2026-11-16T09":2,"2026-11-16T12":3,"2026-11-16T15":4,"2026-11-16T18":2,"2026-11-16T21":4,"2026-11-17T00":7,"2026-11-17T03":8,"2026-11-17T06":22,"2026-11-17T09":8,"2026-11-17T12":6,"2026-11-17T15":12,"2026-11-17T18":6,"2026-11-17T21":5,"2026-11-18T00":9,"2026-11-18T03":6,"2026-11-18T06":6,"2026-11-18T09":9,"2026-11-18T12":9,"2026-11-18T15":8,"2026-11-18T18":3,"2026-11-18T21":1,"2026-11-19T00":3,"2026-11-19T03":17,"2026-11-19T06":15,"2026-11-19T09":21},"1>4":{"2026-11-13T09":1,"2026-11-13T18":1,"2026-11-14T06":2,"2026-11-15T12":2,"2026-11-16T09":1,"2026-11-16T15":2,"2026-11-16T18":1,"2026-11-16T21":3,"2026-11-17T00":1,"2026-11-17T03":1,"2026-11-17T06":3,"2026-11-17T15":2,"2026-11-17T18":3,"2026-11-17T21":1,"2026-11-18T03":1,"2026-11-18T06":2,"2026-11-18T09":2,"2026-11-18T15":3,"2026-11-18T18":1,"2026-11-19T06":3,"2026-11-19T09":3},"4>3":{"2026-11-07T15":1,"2026-11-11T06":1,"2026-11-13T09":1,"2026-11-16T00":1,"2026-11-16T06":1,"2026-11-17T00":1,"2026-11-17T06":1,"2026-11-17T12":1,"2026-11-17T18":1,"2026-11-18T00":2,"2026-11-18T03":1,"2026-11-18T06":3,"2026-11-18T09":2,"2026-11-18T12":2,"2026-11-18T21":1,"2026-11-19T00":1,"2026-11-19T03":2,"2026-11-19T06":3,"2026-11-19T09":2},"3>1":{"2026-11-09T18":1,"2026-11-14T03":1,"2026-11-15T09":1,"2026-11-15T21":1,"2026-11-16T00":1,"2026-11-16T03":1,"2026-11-16T06":2,"2026-11-16T15":1,"2026-11-16T18":1,"2026-11-17T06":2,"2026-11-17T15":1,"2026-11-18T06":2,"2026-11-18T09":1,"2026-11-18T15":1,"2026-11-19T00":1,"2026-11-19T03":1,"2026-11-19T06":1,"2026-11-19T09":4},"4>2":{"2026-11-16T12":1,"2026-11-17T00":1,"2026-11-17T06":1,"2026-11-17T18":1,"2026-11-18T06":1,"2026-11-18T18":1,"2026-11-19T03":1,"2026-11-19T09":1},"4>1":{"2026-11-14T06":1,"2026-11-19T03":1}},
+  moveTimes: {"2>3":{"2026-11-06T12":2,"2026-11-06T18":2,"2026-11-07T00":1,"2026-11-07T03":1,"2026-11-08T03":1,"2026-11-08T12":1,"2026-11-09T03":2,"2026-11-09T15":2,"2026-11-09T18":2,"2026-11-09T21":1,"2026-11-10T00":1,"2026-11-10T03":1,"2026-11-10T06":3,"2026-11-10T09":1,"2026-11-10T18":2,"2026-11-10T21":2,"2026-11-11T00":2,"2026-11-11T06":2,"2026-11-11T09":4,"2026-11-11T12":3,"2026-11-11T15":3,"2026-11-11T18":3,"2026-11-11T21":1,"2026-11-12T00":9,"2026-11-12T03":6,"2026-11-12T06":7,"2026-11-12T09":4,"2026-11-12T12":4,"2026-11-12T15":9,"2026-11-12T18":7,"2026-11-12T21":5,"2026-11-13T00":4,"2026-11-13T03":17,"2026-11-13T06":15,"2026-11-13T09":16,"2026-11-13T12":17,"2026-11-13T15":13,"2026-11-13T18":20,"2026-11-13T21":20,"2026-11-14T00":11,"2026-11-14T03":81,"2026-11-14T06":129,"2026-11-14T09":71,"2026-11-14T12":70,"2026-11-14T15":51,"2026-11-14T18":40,"2026-11-14T21":30,"2026-11-15T00":44,"2026-11-15T03":53,"2026-11-15T06":80,"2026-11-15T09":68,"2026-11-15T12":70,"2026-11-15T15":72,"2026-11-15T18":36,"2026-11-15T21":37,"2026-11-16T00":100,"2026-11-16T03":155,"2026-11-16T06":178,"2026-11-16T09":155,"2026-11-16T12":162,"2026-11-16T15":138,"2026-11-16T18":95,"2026-11-16T21":77,"2026-11-17T00":141,"2026-11-17T03":208,"2026-11-17T06":813,"2026-11-17T09":404,"2026-11-17T12":389,"2026-11-17T15":367,"2026-11-17T18":239,"2026-11-17T21":182,"2026-11-18T00":312,"2026-11-18T03":473,"2026-11-18T06":534,"2026-11-18T09":442,"2026-11-18T12":411,"2026-11-18T15":392,"2026-11-18T18":266,"2026-11-18T21":217,"2026-11-19T00":379,"2026-11-19T03":716,"2026-11-19T06":788,"2026-11-19T09":785,"2026-11-19T12":231,"2026-11-19T15":108,"2026-11-19T18":54,"2026-11-19T21":27,"2026-11-20T00":53,"2026-11-20T03":55,"2026-11-20T06":293,"2026-11-20T09":175,"2026-11-20T12":78,"2026-11-20T15":80,"2026-11-20T18":25,"2026-11-20T21":28,"2026-11-21T00":28,"2026-11-21T03":36,"2026-11-21T06":20,"2026-11-21T09":25,"2026-11-21T12":24,"2026-11-21T15":103,"2026-11-21T18":10,"2026-11-21T21":9,"2026-11-22T00":14,"2026-11-22T03":14,"2026-11-22T06":3},"1>2":{"2026-11-06T18":1,"2026-11-07T18":1,"2026-11-08T00":1,"2026-11-09T06":1,"2026-11-10T00":1,"2026-11-10T12":2,"2026-11-10T15":1,"2026-11-10T18":1,"2026-11-11T03":1,"2026-11-11T18":1,"2026-11-12T03":2,"2026-11-12T12":1,"2026-11-12T21":2,"2026-11-13T03":2,"2026-11-13T06":5,"2026-11-13T09":4,"2026-11-13T12":4,"2026-11-13T15":4,"2026-11-13T18":3,"2026-11-13T21":4,"2026-11-14T00":1,"2026-11-14T03":15,"2026-11-14T06":19,"2026-11-14T09":22,"2026-11-14T12":12,"2026-11-14T15":10,"2026-11-14T18":12,"2026-11-14T21":3,"2026-11-15T00":6,"2026-11-15T03":11,"2026-11-15T06":7,"2026-11-15T09":13,"2026-11-15T12":8,"2026-11-15T15":5,"2026-11-15T18":10,"2026-11-15T21":6,"2026-11-16T00":15,"2026-11-16T03":10,"2026-11-16T06":19,"2026-11-16T09":21,"2026-11-16T12":23,"2026-11-16T15":23,"2026-11-16T18":19,"2026-11-16T21":16,"2026-11-17T00":11,"2026-11-17T03":23,"2026-11-17T06":126,"2026-11-17T09":52,"2026-11-17T12":54,"2026-11-17T15":56,"2026-11-17T18":50,"2026-11-17T21":36,"2026-11-18T00":46,"2026-11-18T03":48,"2026-11-18T06":59,"2026-11-18T09":63,"2026-11-18T12":53,"2026-11-18T15":65,"2026-11-18T18":45,"2026-11-18T21":37,"2026-11-19T00":62,"2026-11-19T03":100,"2026-11-19T06":121,"2026-11-19T09":118,"2026-11-19T12":38,"2026-11-19T15":12,"2026-11-19T18":12,"2026-11-19T21":3,"2026-11-20T00":5,"2026-11-20T03":8,"2026-11-20T06":39,"2026-11-20T09":25,"2026-11-20T12":13,"2026-11-20T15":9,"2026-11-20T18":7,"2026-11-20T21":9,"2026-11-21T00":5,"2026-11-21T06":4,"2026-11-21T09":5,"2026-11-21T15":10,"2026-11-21T21":2,"2026-11-22T00":6,"2026-11-22T03":3,"2026-11-22T06":1},"3>4":{"2026-11-06T15":1,"2026-11-07T21":1,"2026-11-08T21":1,"2026-11-09T06":1,"2026-11-10T03":1,"2026-11-10T06":1,"2026-11-10T09":1,"2026-11-10T12":2,"2026-11-11T12":1,"2026-11-11T15":1,"2026-11-11T21":2,"2026-11-12T12":1,"2026-11-12T15":1,"2026-11-12T18":2,"2026-11-12T21":2,"2026-11-13T00":1,"2026-11-13T03":2,"2026-11-13T06":5,"2026-11-13T09":6,"2026-11-13T12":3,"2026-11-13T15":1,"2026-11-13T18":3,"2026-11-13T21":2,"2026-11-14T00":2,"2026-11-14T03":7,"2026-11-14T06":9,"2026-11-14T09":2,"2026-11-14T12":10,"2026-11-14T15":6,"2026-11-14T18":7,"2026-11-15T00":4,"2026-11-15T03":6,"2026-11-15T06":8,"2026-11-15T09":10,"2026-11-15T12":14,"2026-11-15T15":5,"2026-11-15T18":7,"2026-11-15T21":3,"2026-11-16T00":11,"2026-11-16T03":18,"2026-11-16T06":20,"2026-11-16T09":15,"2026-11-16T12":17,"2026-11-16T15":14,"2026-11-16T18":19,"2026-11-16T21":8,"2026-11-17T00":17,"2026-11-17T03":16,"2026-11-17T06":54,"2026-11-17T09":38,"2026-11-17T12":41,"2026-11-17T15":30,"2026-11-17T18":27,"2026-11-17T21":21,"2026-11-18T00":20,"2026-11-18T03":35,"2026-11-18T06":33,"2026-11-18T09":34,"2026-11-18T12":36,"2026-11-18T15":27,"2026-11-18T18":25,"2026-11-18T21":18,"2026-11-19T00":33,"2026-11-19T03":51,"2026-11-19T06":47,"2026-11-19T09":50,"2026-11-19T12":17,"2026-11-19T15":8,"2026-11-19T18":8,"2026-11-19T21":2,"2026-11-20T00":5,"2026-11-20T03":4,"2026-11-20T06":13,"2026-11-20T09":8,"2026-11-20T12":2,"2026-11-20T15":4,"2026-11-20T18":1,"2026-11-20T21":1,"2026-11-21T00":1,"2026-11-21T03":3,"2026-11-21T09":1,"2026-11-21T15":4,"2026-11-22T00":2,"2026-11-22T03":1},"2>4":{"2026-11-07T03":1,"2026-11-08T12":1,"2026-11-08T15":1,"2026-11-09T09":2,"2026-11-09T12":1,"2026-11-10T09":2,"2026-11-10T18":1,"2026-11-11T09":1,"2026-11-11T12":1,"2026-11-12T03":2,"2026-11-12T06":1,"2026-11-12T12":3,"2026-11-12T15":3,"2026-11-12T18":1,"2026-11-12T21":1,"2026-11-13T03":5,"2026-11-13T06":2,"2026-11-13T09":3,"2026-11-13T12":3,"2026-11-13T15":5,"2026-11-13T21":5,"2026-11-14T00":4,"2026-11-14T03":10,"2026-11-14T06":11,"2026-11-14T09":5,"2026-11-14T12":9,"2026-11-14T15":12,"2026-11-14T18":3,"2026-11-14T21":3,"2026-11-15T00":5,"2026-11-15T03":8,"2026-11-15T06":9,"2026-11-15T09":8,"2026-11-15T12":7,"2026-11-15T15":5,"2026-11-15T18":5,"2026-11-15T21":1,"2026-11-16T00":12,"2026-11-16T03":12,"2026-11-16T06":16,"2026-11-16T09":18,"2026-11-16T12":13,"2026-11-16T15":13,"2026-11-16T18":12,"2026-11-16T21":10,"2026-11-17T00":19,"2026-11-17T03":18,"2026-11-17T06":55,"2026-11-17T09":32,"2026-11-17T12":33,"2026-11-17T15":24,"2026-11-17T18":19,"2026-11-17T21":24,"2026-11-18T00":26,"2026-11-18T03":22,"2026-11-18T06":37,"2026-11-18T09":33,"2026-11-18T12":26,"2026-11-18T15":39,"2026-11-18T18":16,"2026-11-18T21":11,"2026-11-19T00":28,"2026-11-19T03":32,"2026-11-19T06":42,"2026-11-19T09":45,"2026-11-19T12":9,"2026-11-19T15":5,"2026-11-19T18":5,"2026-11-19T21":3,"2026-11-20T00":2,"2026-11-20T03":2,"2026-11-20T06":12,"2026-11-20T09":6,"2026-11-20T12":2,"2026-11-20T15":7,"2026-11-20T18":2,"2026-11-21T00":1,"2026-11-21T03":2,"2026-11-21T06":2,"2026-11-21T09":2,"2026-11-21T15":8,"2026-11-22T00":2},"1>3":{"2026-11-12T06":2,"2026-11-12T09":2,"2026-11-12T15":2,"2026-11-12T18":2,"2026-11-12T21":1,"2026-11-13T00":1,"2026-11-13T03":1,"2026-11-13T06":1,"2026-11-13T09":1,"2026-11-13T12":1,"2026-11-13T15":1,"2026-11-13T18":3,"2026-11-13T21":4,"2026-11-14T03":8,"2026-11-14T06":10,"2026-11-14T09":7,"2026-11-14T15":6,"2026-11-14T18":7,"2026-11-14T21":1,"2026-11-15T00":7,"2026-11-15T03":3,"2026-11-15T06":3,"2026-11-15T09":3,"2026-11-15T12":7,"2026-11-15T15":5,"2026-11-15T18":6,"2026-11-15T21":11,"2026-11-16T00":4,"2026-11-16T03":12,"2026-11-16T06":11,"2026-11-16T09":4,"2026-11-16T12":12,"2026-11-16T15":9,"2026-11-16T18":9,"2026-11-16T21":4,"2026-11-17T00":5,"2026-11-17T03":19,"2026-11-17T06":44,"2026-11-17T09":23,"2026-11-17T12":29,"2026-11-17T15":21,"2026-11-17T18":18,"2026-11-17T21":14,"2026-11-18T00":28,"2026-11-18T03":34,"2026-11-18T06":41,"2026-11-18T09":33,"2026-11-18T12":28,"2026-11-18T15":34,"2026-11-18T18":24,"2026-11-18T21":27,"2026-11-19T00":29,"2026-11-19T03":54,"2026-11-19T06":54,"2026-11-19T09":43,"2026-11-19T12":23,"2026-11-19T15":5,"2026-11-19T18":4,"2026-11-19T21":7,"2026-11-20T00":4,"2026-11-20T03":4,"2026-11-20T06":12,"2026-11-20T09":12,"2026-11-20T12":4,"2026-11-20T15":5,"2026-11-20T18":3,"2026-11-20T21":1,"2026-11-21T00":4,"2026-11-21T06":3,"2026-11-21T09":1,"2026-11-21T12":2,"2026-11-21T15":4,"2026-11-21T21":1,"2026-11-22T03":1,"2026-11-22T06":1},"2>1":{"2026-11-06T12":2,"2026-11-06T15":2,"2026-11-06T18":1,"2026-11-07T00":1,"2026-11-07T03":2,"2026-11-07T06":1,"2026-11-08T15":1,"2026-11-09T09":1,"2026-11-10T18":1,"2026-11-11T09":1,"2026-11-12T00":1,"2026-11-12T03":2,"2026-11-12T12":1,"2026-11-13T06":2,"2026-11-13T09":1,"2026-11-13T15":1,"2026-11-13T21":3,"2026-11-14T03":5,"2026-11-14T06":4,"2026-11-14T09":4,"2026-11-14T12":1,"2026-11-14T15":2,"2026-11-14T18":2,"2026-11-15T00":1,"2026-11-15T06":2,"2026-11-15T09":3,"2026-11-15T12":2,"2026-11-15T15":3,"2026-11-15T18":4,"2026-11-16T00":2,"2026-11-16T03":4,"2026-11-16T06":6,"2026-11-16T09":1,"2026-11-16T12":4,"2026-11-16T15":1,"2026-11-16T18":6,"2026-11-16T21":1,"2026-11-17T00":6,"2026-11-17T03":2,"2026-11-17T06":20,"2026-11-17T09":5,"2026-11-17T12":7,"2026-11-17T15":12,"2026-11-17T18":4,"2026-11-17T21":5,"2026-11-18T00":4,"2026-11-18T03":11,"2026-11-18T06":11,"2026-11-18T09":10,"2026-11-18T12":9,"2026-11-18T15":10,"2026-11-18T18":8,"2026-11-18T21":5,"2026-11-19T00":7,"2026-11-19T03":17,"2026-11-19T06":20,"2026-11-19T09":28,"2026-11-19T12":10,"2026-11-19T15":9,"2026-11-19T18":9,"2026-11-19T21":1,"2026-11-20T00":2,"2026-11-20T03":5,"2026-11-20T06":6,"2026-11-20T09":4,"2026-11-20T12":2,"2026-11-20T18":2,"2026-11-20T21":2,"2026-11-21T00":1,"2026-11-21T06":1,"2026-11-21T12":1,"2026-11-21T15":1,"2026-11-22T00":3,"2026-11-22T06":1},"3>2":{"2026-11-06T12":1,"2026-11-06T18":1,"2026-11-07T03":1,"2026-11-08T03":1,"2026-11-08T15":1,"2026-11-09T03":1,"2026-11-09T15":1,"2026-11-11T12":1,"2026-11-13T03":1,"2026-11-14T03":2,"2026-11-14T06":2,"2026-11-14T09":4,"2026-11-14T12":2,"2026-11-14T15":1,"2026-11-14T18":3,"2026-11-15T00":1,"2026-11-15T03":2,"2026-11-15T06":1,"2026-11-15T09":1,"2026-11-15T12":1,"2026-11-15T15":1,"2026-11-15T18":2,"2026-11-16T00":3,"2026-11-16T03":5,"2026-11-16T06":4,"2026-11-16T09":2,"2026-11-16T12":2,"2026-11-16T15":4,"2026-11-16T18":1,"2026-11-16T21":3,"2026-11-17T00":4,"2026-11-17T03":7,"2026-11-17T06":18,"2026-11-17T09":7,"2026-11-17T12":5,"2026-11-17T15":11,"2026-11-17T18":6,"2026-11-17T21":5,"2026-11-18T00":8,"2026-11-18T03":4,"2026-11-18T06":6,"2026-11-18T09":7,"2026-11-18T12":9,"2026-11-18T15":8,"2026-11-18T18":2,"2026-11-19T00":1,"2026-11-19T03":10,"2026-11-19T06":11,"2026-11-19T09":17,"2026-11-19T12":8,"2026-11-19T15":2,"2026-11-19T18":2,"2026-11-20T00":1,"2026-11-20T06":15,"2026-11-20T09":8,"2026-11-20T12":5,"2026-11-20T15":2,"2026-11-20T18":1,"2026-11-21T00":2,"2026-11-21T03":2,"2026-11-21T06":1,"2026-11-21T15":5},"1>4":{"2026-11-13T09":1,"2026-11-13T18":1,"2026-11-14T06":2,"2026-11-15T12":2,"2026-11-16T09":1,"2026-11-16T15":2,"2026-11-16T18":1,"2026-11-16T21":2,"2026-11-17T00":1,"2026-11-17T03":1,"2026-11-17T06":3,"2026-11-17T15":2,"2026-11-17T18":3,"2026-11-17T21":1,"2026-11-18T03":2,"2026-11-18T06":1,"2026-11-18T09":1,"2026-11-18T15":3,"2026-11-18T18":1,"2026-11-18T21":1,"2026-11-19T00":1,"2026-11-19T06":4,"2026-11-19T09":4,"2026-11-20T06":1,"2026-11-20T09":3},"4>3":{"2026-11-07T15":1,"2026-11-11T06":1,"2026-11-13T09":1,"2026-11-16T00":1,"2026-11-16T06":1,"2026-11-17T00":1,"2026-11-17T06":1,"2026-11-17T12":1,"2026-11-17T18":1,"2026-11-18T00":2,"2026-11-18T03":1,"2026-11-18T06":3,"2026-11-18T09":2,"2026-11-18T12":2,"2026-11-18T21":1,"2026-11-19T00":1,"2026-11-19T03":2,"2026-11-19T06":2,"2026-11-19T09":2,"2026-11-19T12":2,"2026-11-19T18":1,"2026-11-20T06":1,"2026-11-20T12":1,"2026-11-21T00":1},"3>1":{"2026-11-09T18":1,"2026-11-14T03":1,"2026-11-15T09":1,"2026-11-15T21":1,"2026-11-16T00":1,"2026-11-16T03":1,"2026-11-16T06":2,"2026-11-16T15":1,"2026-11-16T18":1,"2026-11-17T06":2,"2026-11-17T15":1,"2026-11-18T06":2,"2026-11-18T09":1,"2026-11-18T15":1,"2026-11-19T00":1,"2026-11-19T03":1,"2026-11-19T06":1,"2026-11-19T09":2,"2026-11-19T12":1,"2026-11-19T21":1,"2026-11-21T09":1},"4>2":{"2026-11-16T12":1,"2026-11-17T00":1,"2026-11-17T06":1,"2026-11-17T18":1,"2026-11-18T18":1,"2026-11-19T03":1,"2026-11-19T09":1,"2026-11-20T06":1},"4>1":{"2026-11-14T06":1,"2026-11-19T03":1}},
   // One row per update: papers still active with the same number of reviews, and how many moved.
   timeline: [
     {"at":"2026-11-06T13:54:47Z","sc":40458,"up":0,"down":0,"mixed":0,"withdrawn":0},
@@ -141,6 +141,7 @@ window.ICLR_DATA = {
     {"at":"2026-11-19T03:09:58Z","sc":34574,"up":10687,"down":449,"mixed":54,"withdrawn":5583},
     {"at":"2026-11-19T07:10:25Z","sc":34431,"up":11675,"down":479,"mixed":64,"withdrawn":5727},
     {"at":"2026-11-19T11:11:03Z","sc":34253,"up":12654,"down":510,"mixed":74,"withdrawn":5904},
-    {"at":"2026-11-19T12:07:10Z","sc":34161,"up":12876,"down":522,"mixed":73,"withdrawn":5995}
+    {"at":"2026-11-19T12:07:10Z","sc":34161,"up":12876,"down":522,"mixed":73,"withdrawn":5995},
+    {"at":"2026-11-22T07:23:02Z","sc":33335,"up":13524,"down":551,"mixed":86,"withdrawn":6344}
   ]
 };

diff --git a/README.md b/README.md
@@ -40,7 +40,7 @@ How much did the ICLR 2027 rebuttal move review scores? Every paper's initial re
 - **Initial scores.** The snapshot taken right after reviews were released (Nov 6, 13:54 UTC), published at [shiqiangw.github.io/iclr-2027-scores](https://shiqiangw.github.io/iclr-2027-scores/) ([repo](https://github.com/shiqiangw/iclr-2027-scores)), about a day after reviews were released.
 - **Current ratings.** The OpenReview API: every ICLR 2027 submission with its official reviews.
 - **Score changes.** A paper's scores now against its initial scores. Only papers still under review with the same number of reviews are counted.
-- **Review-level moves.** Reviews not edited since the snapshot keep their initial rating, which pins down the rest. When several reviews on one paper were edited and more than one pairing fits, edits that kept the rating count as text-only and the rest are paired by smallest change. This applies to 2,551 of 16,373 changed reviews (16%, as of Nov 19); the rest are pinned down exactly.
+- **Review-level moves.** Reviews not edited since the snapshot keep their initial rating, which pins down the rest. When several reviews on one paper were edited and more than one pairing fits, edits that kept the rating count as text-only and the rest are paired by smallest change. This applies to 2,984 of 17,456 changed reviews (17%, as of Nov 22); the rest are pinned down exactly.
 - **Privacy.** Only counts are published. No review text, reviewer ids, paper titles or author names.
 
 Made by [Jueun Kim](https://juevn.github.io/) ([@jueun_kim_](https://x.com/jueun_kim_)). Also: [NeurIPS 2026 Explorer](https://juevn.github.io/neurips2026/).
